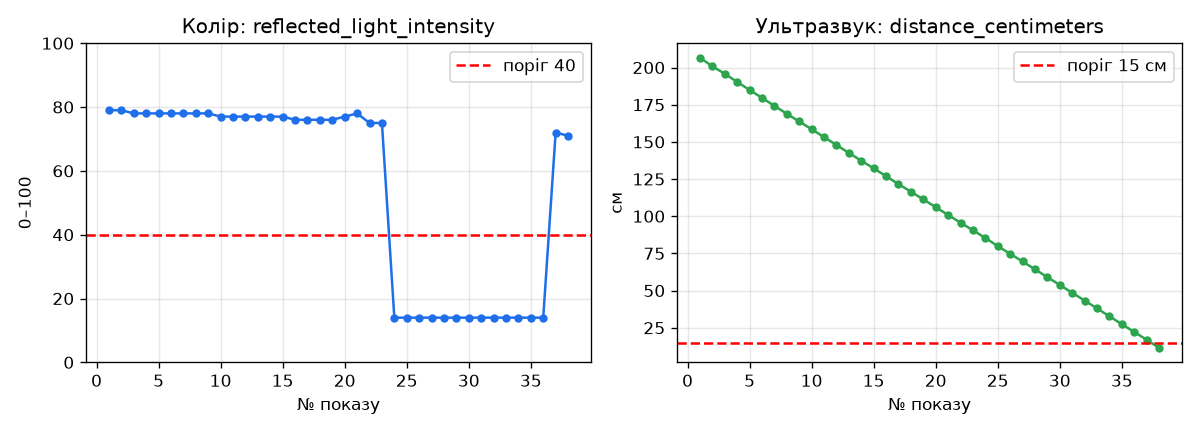
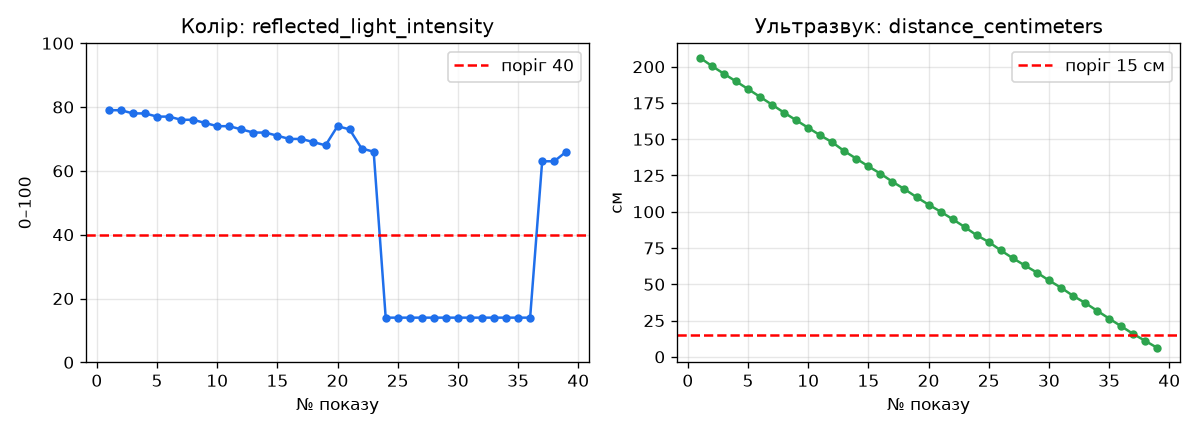
Робота 4: числа з мого прогону на сцені, pokazy_gears.py

diff --git a/praktyka/04-sensory/pokazy_gears.py b/praktyka/04-sensory/pokazy_gears.py
@@ -1,0 +1,46 @@
+# Робота 4: покази кольору й ультразвуку в русі через заборонену зону.
+# Світ: kursova/scena/custom_world.json (Worlds -> Load from file).
+# Робот розвертається на 180° і їде на південь через зону (20, -150).
+
+import time
+from ev3dev2.motor import *
+from ev3dev2.sensor import *
+from ev3dev2.sensor.lego import *
+from ev3dev2.sensor.virtual import *
+
+tank = MoveTank(OUTPUT_A, OUTPUT_B)
+color = ColorSensor(INPUT_1)
+ultra = UltrasonicSensor(INPUT_2)
+gyro = GyroSensor(INPUT_3)
+gps = GPSSensor(INPUT_4)
+time.sleep(0.5)
+
+# розворот на південь (гіроскоп 180°)
+gyro.reset()
+tank.on(20, -20)
+while gyro.angle < 180:
+    pass
+tank.off()
+time.sleep(1)
+print("heading", gyro.angle, "start", round(gps.x, 1), round(gps.y, 1))
+
+# новий рядок щоразу, коли робот проїхав >= 5 см (за GPS),
+# print у циклі не використовую: він сповільнює симулятор
+data = []
+last = gps.y + 100
+tank.on(30, 30)
+while len(data) < 48:
+    y = gps.y
+    if abs(y - last) >= 5:
+        data.append((len(data) + 1, round(gps.x, 1), round(y, 1),
+                     color.reflected_light_intensity,
+                     round(ultra.distance_centimeters, 1)))
+        last = y
+    if ultra.distance_centimeters < 7:
+        break
+    time.sleep(0.02)
+tank.off()
+
+# № x y колір відстань
+for d in data:
+    print(d[0], d[1], d[2], d[3], d[4])

diff --git a/praktyka/04-sensory/pokazy.md b/praktyka/04-sensory/pokazy.md
@@ -2,57 +2,58 @@
 
 Датчики: **колір** (`ColorSensor(INPUT_1)`, `reflected_light_intensity`, 0–100) — головний для моєї місії (знайти колірну мітку й не заїхати в заборонену зону), і **ультразвуковий** (`UltrasonicSensor(INPUT_2)`, `distance_centimeters`, см) — для зупинки за 15 см до об'єкта.
 
-Світ: власна сцена `kursova/scena/custom_world.json` (середовище № 2, ускладнення № 5): поле 4 × 4 м, три заборонені зони — темні плями 70 × 70 см. Робот стартував у центрі, розвернувся на 180° за гіроскопом і їхав на південь зі швидкістю 30 % через зону `(20, −150)`. Покази знімались за координатою GPS: новий рядок щоразу, коли робот проїхав ≥ 5 см (так числа не залежать від швидкості симулятора). `print` у кожній ітерації не використовував — результат збирається у список і друкується наприкінці.
+Світ: власна сцена `kursova/scena/custom_world.json` (середовище № 2, ускладнення № 5): поле 4 × 4 м, три заборонені зони — темні плями 70 × 70 см. Програма — `pokazy_gears.py`: робот розвертається на 180° за гіроскопом (`heading 181`) і їде на південь зі швидкістю 30 % через зону з центром `(20, −150)`. Новий рядок записується щоразу, коли робот проїхав ≥ 5 см за GPS, а `print` у циклі не використовую — результат друкується наприкінці.
 
 Нерухомий датчик у Gears щоразу дає те саме число (шуму немає), тому заміри зроблено в русі.
 
 | № | x, см | y, см | де був робот | колір, 0–100 | відстань, см |
 |---|---|---|---|---|---|
-| 1 | 0 | 6,8 | світла підлога | 79 | 206,6 |
-| 2 | -0,1 | 1,7 | світла підлога | 79 | 200,8 |
-| 3 | -0,2 | -3,7 | світла підлога | 78 | 195,8 |
-| 4 | -0,2 | -9,1 | світла підлога | 78 | 190,3 |
-| 5 | -0,3 | -14,5 | світла підлога | 78 | 184,9 |
-| 6 | -0,4 | -19,8 | світла підлога | 78 | 179,6 |
-| 7 | -0,4 | -25,3 | світла підлога | 78 | 174,2 |
-| 8 | -0,5 | -30,7 | світла підлога | 78 | 168,9 |
-| 9 | -0,6 | -35,8 | світла підлога | 78 | 163,7 |
-| 10 | -0,6 | -41,1 | світла підлога | 77 | 158,5 |
-| 11 | -0,7 | -46,3 | світла підлога | 77 | 153,2 |
-| 12 | -0,7 | -51,5 | світла підлога | 77 | 147,9 |
-| 13 | -0,8 | -56,9 | світла підлога | 77 | 142,6 |
-| 14 | -0,9 | -62,1 | світла підлога | 77 | 137,3 |
-| 15 | -0,9 | -67,4 | світла підлога | 77 | 132,2 |
-| 16 | -1 | -72,6 | світла підлога | 76 | 126,9 |
-| 17 | -1 | -77,8 | світла підлога | 76 | 121,6 |
-| 18 | -1,1 | -83,1 | світла підлога | 76 | 116,5 |
-| 19 | -1,1 | -88,2 | світла підлога | 76 | 111,3 |
-| 20 | -1,2 | -93,5 | світла підлога | 77 | 106,1 |
-| 21 | -1,2 | -98,7 | світла підлога | 78 | 100,8 |
-| 22 | -1,3 | -103,8 | світла підлога | 75 | 95,7 |
-| 23 | -1,3 | -108,9 | світла підлога | 75 | 90,5 |
-| 24 | -1,4 | -114,1 | на забороненій зоні (темна пляма) | 14 | 85,4 |
-| 25 | -1,5 | -119,5 | на забороненій зоні (темна пляма) | 14 | 79,9 |
-| 26 | -1,5 | -124,7 | на забороненій зоні (темна пляма) | 14 | 74,7 |
-| 27 | -1,6 | -130 | на забороненій зоні (темна пляма) | 14 | 69,6 |
-| 28 | -1,6 | -135,3 | на забороненій зоні (темна пляма) | 14 | 64,3 |
-| 29 | -1,7 | -140,5 | на забороненій зоні (темна пляма) | 14 | 59 |
-| 30 | -1,8 | -145,7 | на забороненій зоні (темна пляма) | 14 | 53,8 |
-| 31 | -1,8 | -151 | на забороненій зоні (темна пляма) | 14 | 48,5 |
-| 32 | -1,9 | -156,2 | на забороненій зоні (темна пляма) | 14 | 43,3 |
-| 33 | -2 | -161,5 | на забороненій зоні (темна пляма) | 14 | 38 |
-| 34 | -2,1 | -166,7 | на забороненій зоні (темна пляма) | 14 | 32,7 |
-| 35 | -2,1 | -172 | на забороненій зоні (темна пляма) | 14 | 27,4 |
-| 36 | -2,2 | -177,3 | на забороненій зоні (темна пляма) | 14 | 22,2 |
-| 37 | -2,3 | -182,6 | світла підлога за зоною, біля стіни | 72 | 16,9 |
-| 38 | -2,4 | -187,9 | світла підлога за зоною, біля стіни | 71 | 11,5 |
+| 1 | 0,1 | 6,8 | світла підлога | 79 | 206,2 |
+| 2 | 0 | 1,5 | світла підлога | 79 | 200,5 |
+| 3 | -0,2 | -4,1 | світла підлога | 78 | 195,1 |
+| 4 | -0,4 | -9,3 | світла підлога | 78 | 189,9 |
+| 5 | -0,5 | -14,3 | світла підлога | 77 | 184,6 |
+| 6 | -0,7 | -19,6 | світла підлога | 77 | 179,2 |
+| 7 | -0,9 | -24,9 | світла підлога | 76 | 173,8 |
+| 8 | -1,1 | -30,5 | світла підлога | 76 | 168,3 |
+| 9 | -1,3 | -35,7 | світла підлога | 75 | 163,1 |
+| 10 | -1,4 | -40,8 | світла підлога | 74 | 157,9 |
+| 11 | -1,6 | -46,2 | світла підлога | 74 | 152,7 |
+| 12 | -1,8 | -51,7 | світла підлога | 73 | 147,9 |
+| 13 | -2 | -57,2 | світла підлога | 72 | 141,8 |
+| 14 | -2,2 | -62,5 | світла підлога | 72 | 136,6 |
+| 15 | -2,4 | -67,6 | світла підлога | 71 | 131,3 |
+| 16 | -2,6 | -73 | світла підлога | 70 | 126,3 |
+| 17 | -2,8 | -78,2 | світла підлога | 70 | 120,7 |
+| 18 | -2,9 | -83,4 | світла підлога | 69 | 115,6 |
+| 19 | -3,1 | -88,9 | світла підлога | 68 | 110,1 |
+| 20 | -3,3 | -94,3 | світла підлога | 74 | 104,9 |
+| 21 | -3,5 | -99,3 | світла підлога | 73 | 100,1 |
+| 22 | -3,6 | -104,5 | світла підлога | 67 | 94,9 |
+| 23 | -3,8 | -109,6 | світла підлога | 66 | 89,5 |
+| 24 | -4 | -115,1 | на забороненій зоні (темна пляма) | 14 | 83,8 |
+| 25 | -4,2 | -120,4 | на забороненій зоні (темна пляма) | 14 | 79,2 |
+| 26 | -4,3 | -125,7 | на забороненій зоні (темна пляма) | 14 | 73,4 |
+| 27 | -4,5 | -131 | на забороненій зоні (темна пляма) | 14 | 68 |
+| 28 | -4,7 | -136 | на забороненій зоні (темна пляма) | 14 | 63 |
+| 29 | -4,9 | -141,1 | на забороненій зоні (темна пляма) | 14 | 58,1 |
+| 30 | -5 | -146,2 | на забороненій зоні (темна пляма) | 14 | 52,7 |
+| 31 | -5,2 | -151,4 | на забороненій зоні (темна пляма) | 14 | 47,7 |
+| 32 | -5,4 | -157 | на забороненій зоні (темна пляма) | 14 | 42,1 |
+| 33 | -5,6 | -162,1 | на забороненій зоні (темна пляма) | 14 | 37,2 |
+| 34 | -5,8 | -167,1 | на забороненій зоні (темна пляма) | 14 | 31,8 |
+| 35 | -5,9 | -172,4 | на забороненій зоні (темна пляма) | 14 | 26,4 |
+| 36 | -6,1 | -177,9 | на забороненій зоні (темна пляма) | 14 | 21,1 |
+| 37 | -6,3 | -183 | світла підлога за зоною | 63 | 15,8 |
+| 38 | -6,4 | -188 | світла підлога за зоною | 63 | 11 |
+| 39 | -6,6 | -193 | світла підлога за зоною | 66 | 6,2 |
 
-Колір: найменший показ **14** (темна зона), найбільший **79** (світла підлога). Відстань: найменша **11,5 см** (біля стіни), найбільша **206,6 см**. Усього 38 показів.
+Колір: найменший показ **14** (зона), найбільший **79** (підлога). Відстань: від **6,2** до **206,2 см**. Усього 39 показів.
 
-Спостереження: підлога не дає одне число, а діапазон 71–79 (у першому, невдалому запуску на підлозі траплялись і 63); темна зона стабільно дає 14. Перехід між «полицями» 75 → 14 відбувається за один крок (5 см), на межі зони (y ≈ −114, зона починається з y = −115) — проміжних значень у цьому запуску немає.
+Спостереження: підлога не дає одне число, а діапазон 63–79: на початку шляху 79, до зони поступово спадає до 66, за зоною знову 63–66. Зона стабільно дає 14. Перехід 66 → 14 відбувається за один крок (5 см) на межі зони (y ≈ −115, зона починається з y = −115): проміжних значень немає. Перший пробний прогін я зробив у світі Grid Map без зони — там колір увесь час 70–82.
 
 ## Графік
 
 ![графік показів](grafik.png)
 
-На графіку кольору видно дві «полиці»: підлога (71–79) і зона (14), перехід між ними різкий. Червона пунктирна лінія — поріг 40. Відстань падає майже рівно, бо кожен показ — це 5 см шляху до стіни.
+На графіку кольору видно дві «полиці»: підлога (63–79) і зона (14), перехід між ними різкий. Червона пунктирна лінія — поріг 40. Відстань падає майже рівно, бо кожен показ — це 5 см шляху до стіни.

diff --git a/praktyka/04-sensory/zvit.md b/praktyka/04-sensory/zvit.md
@@ -4,12 +4,12 @@
 
 Прогноз до замірів: на світлому ≈ **60**, на темному ≈ **15**, біля стіни ≈ **5 см**, далеко ≈ **200 см**.
 
-Колір: найменший показ **14** (зона), найбільший **79** (підлога). Відстань: від **11,5** до **206,6 см**. Усі 38 показів і графік — у `pokazy.md` та `grafik.png`.
+Колір: найменший показ **14** (зона), найбільший **79** (підлога). Відстань: від **6,2** до **206,2 см**. Усі 39 показів і графік — у `pokazy.md` та `grafik.png`.
 
 ## Поріг: 40 (колір; нижче — заборонена зона)
 
-1. **Звідки.** Зона дає стабільно 14, світла підлога 71–79, а в першому запуску біля коробки траплялось і 63. Беру середину між зоною й найтемнішою підлогою: (14 + 63) / 2 = 38,5, округлив до **40**. Запас 26 пунктів до зони й 23 до підлоги. Для ультразвуку лишаю 15 см з картки (15 ± 3 см).
-2. **Чим відрізняється від прогнозу.** Підлога вийшла яскравішою: 71–79 замість 60. Зона (14) майже збіглась з прогнозом (15). Біля стіни остання відстань 11,5 см, а не 5, бо цикл зупинявся на показі менше 7 см, а менший робот не встиг зняти. Далеко вийшло 206,6 замість 200.
+1. **Звідки.** Зона дає стабільно 14, світла підлога 63–79 (до зони 66–79, за зоною 63–66). Беру середину між зоною й найтемнішою підлогою: (14 + 63) / 2 = 38,5, округлив до **40**. Запас 26 пунктів до зони й 23 до підлоги. Для ультразвуку лишаю 15 см з картки (15 ± 3 см).
+2. **Чим відрізняється від прогнозу.** Підлога вийшла яскравішою: 63–79 замість 60. Зона (14) майже збіглась з прогнозом (15). Біля стіни остання відстань 6,2 см проти прогнозу 5 см, цикл зупиняється на показі менше 7 см. Далеко вийшло 206,2 замість 200.
 3. **Коли зламається.** Якщо зону зробити світлішою за 40 (скажімо, сірою) або підлога десь стане темнішою за 40 (тінь, інша текстура), поріг буде помилятись. Перехід 75 → 14 відбувається за один крок у 5 см, тому будь-який поріг між 15 і 70 спрацює в тому самому місці. Важливіше, скільки робот проїде після спрацювання на швидкості 30 %, цього я ще не міряв (залишу на тиждень 7).
 
 ## Сцена
@@ -17,7 +17,7 @@
 Файли: `kursova/scena/custom_world.json`, скріншот `kursova/scena/scena.png`.
 Середовище з картки: **№ 2, відкритий простір із поодинокими перешкодами**. Ускладнення: **№ 5, заборонені зони**.
 
-Чому сцена підходить: поле **4 × 4 м** без внутрішніх стін і коридорів (`imageScale` 48, перевірив ультразвуком: від центру до стіни ≈ 207 см). П'ять окремих сірих коробок 30 × 30 × 30 см стоять поодинці, між ними вільне місце, тож їх можна об'їхати, а шлях до мети завжди є. Для ускладнення № 5 зроблені три заборонені зони: темні плями 70 × 70 см (`#262626`, датчик кольору там показує 14). Для місії № 2 поставив три маяки 10 × 10 × 10 см: червоний (ціль, у лівому нижньому куті) і два хибні, синій та зелений. Робот стартує в центрі.
+Чому сцена підходить: поле **4 × 4 м** без внутрішніх стін і коридорів (`imageScale` 48, перевірив ультразвуком: від центру до стіни ≈ 206 см). П'ять окремих сірих коробок 30 × 30 × 30 см стоять поодинці, між ними вільне місце, тож їх можна об'їхати, а шлях до мети завжди є. Для ускладнення № 5 зроблені три заборонені зони: темні плями 70 × 70 см (`#262626`, датчик кольору там показує 14). Для місії № 2 поставив три маяки 10 × 10 × 10 см: червоний (ціль, у лівому нижньому куті) і два хибні, синій та зелений. Робот стартує в центрі.
 
 ## Розбір
 
@@ -27,4 +27,4 @@
 
 ## Що не спрацювало
 
-Перший запуск знімав показ через `time.sleep(0.4)`. Симулятор був повільний, і робот проїхав лише ≈ 45 см (GPS −37,6), зону не перетнув, а ультразвук показав 62 → 31 → різко 172, бо збоку була коробка. Тому перейшов на зйомку за GPS: новий рядок щоразу, коли робот проїхав ≥ 5 см. Так вийшов нормальний ряд на 38 показів через зону.
+Перший прогін я зробив у світі Grid Map і забув завантажити свою сцену: колір увесь час був 70–82, зони в показах не було. Після `Worlds → Load from file` з `custom_world.json` вийшов потрібний ряд на 39 показів, у ньому видно перехід на 14 і назад. Скільки сантиметрів робот проїжджає після спрацювання на межі зони, я ще не виміряв (залишаю на тиждень 7).

diff --git a/journal.md b/journal.md
@@ -97,10 +97,10 @@
 ### Тиждень 4 — сенсори, сцена
 
 **Дата:** 28.10.2026
-**Датчик:** колір (reflected_light_intensity, порт 1) + ультразвук (порт 2); 38 показів у русі через заборонену зону на власній сцені: колір 14–79, відстань 11,5–206,6 см (praktyka/04-sensory/pokazy.md, графік grafik.png). Запуски в Gears виконано через Claude Code в браузері.
-**Обраний поріг:** 40 (колір, нижче — заборонена зона) — **чому саме такий:** темна зона дає 14, світла підлога 71–79 (до 63 у тіні коробки), (14 + 63) / 2 ≈ 40, запас 26 і 23 пункти; для ультразвуку лишається 15 см із критерію картки.
-**Числа:** прогноз до замірів: підлога 60, зона 15, стіна 5 см, далеко 200 см; факт: 71–79, 14, 11,5 см, 206,6 см. Сцена (середовище № 2, ускладнення № 5): поле 4 × 4 м, 5 коробок 30 × 30 × 30 см, 3 заборонені зони 70 × 70 см, червоний маяк і два хибні (синій, зелений) — kursova/scena/custom_world.json і scena.png.
-**Що не спрацювало:** перший запуск із `time.sleep(0.4)` між показами проїхав лише ≈ 45 см (GPS −37,6) і зону не перетнув, бо симулятор був повільним; перейшов на зйомку за координатою GPS (рядок кожні ≥ 5 см) — вийшов чистий ряд. Скільки робот проїжджає після спрацювання на межі зони, ще не виміряв.
+**Датчик:** колір (reflected_light_intensity, порт 1) + ультразвук (порт 2); 39 показів у русі через заборонену зону на власній сцені: колір 14–79, відстань 6,2–206,2 см (praktyka/04-sensory/pokazy.md, графік grafik.png).
+**Обраний поріг:** 40 (колір, нижче — заборонена зона) — **чому саме такий:** зона дає 14, світла підлога 63–79, (14 + 63) / 2 ≈ 40, запас 26 і 23 пункти; для ультразвуку лишається 15 см із критерію картки.
+**Числа:** прогноз до замірів: підлога 60, зона 15, стіна 5 см, далеко 200 см; факт: 63–79, 14, 6,2 см, 206,2 см. Сцена (середовище № 2, ускладнення № 5): поле 4 × 4 м, 5 коробок 30 × 30 × 30 см, 3 заборонені зони 70 × 70 см, червоний маяк і два хибні (синій, зелений) — kursova/scena/custom_world.json і scena.png.
+**Що не спрацювало:** перший прогін зробив у світі Grid Map без своєї сцени, і зони в показах не було (колір 70–82); після завантаження custom_world.json вийшов нормальний ряд. Скільки робот проїжджає після спрацювання на межі зони, ще не виміряв.
 
 ---
 
@@ -253,6 +253,6 @@
 
 | Що робив за допомогою ШІ | Інструмент | Що змінив сам |
 |---|---|---|
-| Чернетка картки варіанта, код двох програм і звіт до роботи 2 (тиждень 2); запуски в Gears виконано через Claude Code в браузері | Claude Code | Перевірити, пояснити кожен рядок, повторити запуски самому |
+| Код програм (тижні 2–4), файл сцени custom_world.json, чернетки звітів і картки | Claude Code | Запуск програми тижня 4 у Gears і числа — мої; запуски тижнів 2–3 ще перевіряю |
 
 ⛔ Числа, прогони, відео й карта — **тільки власні**.
